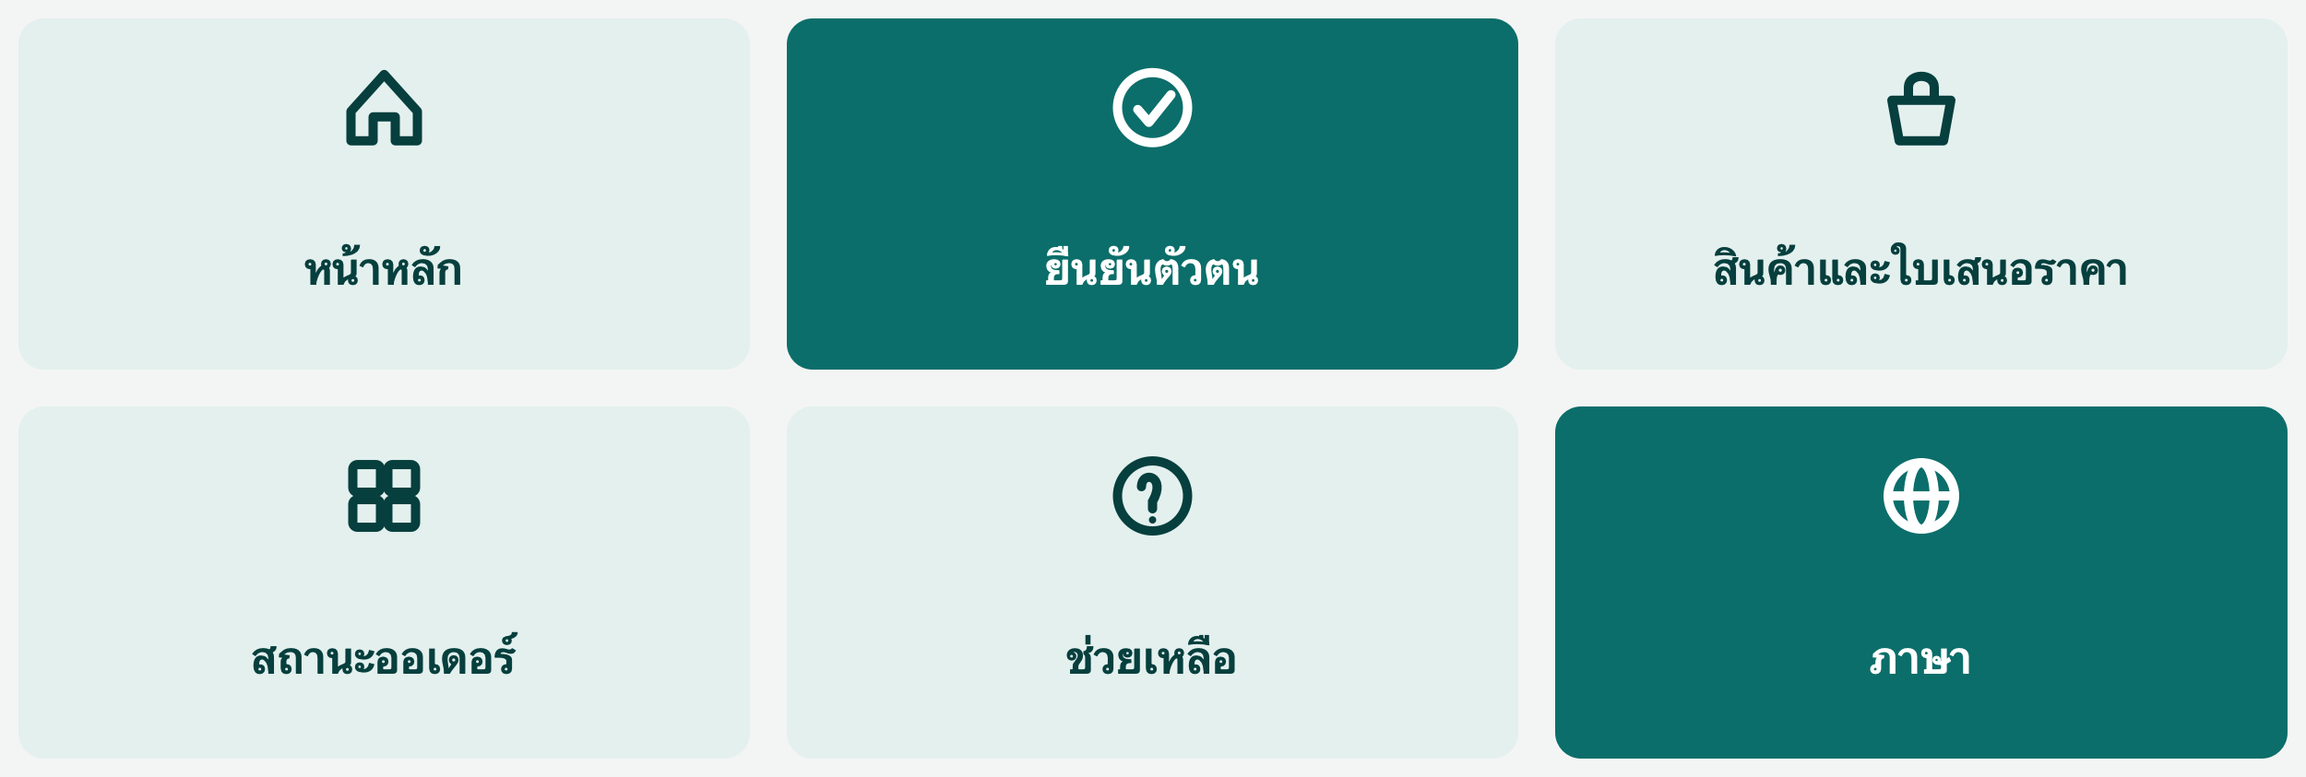
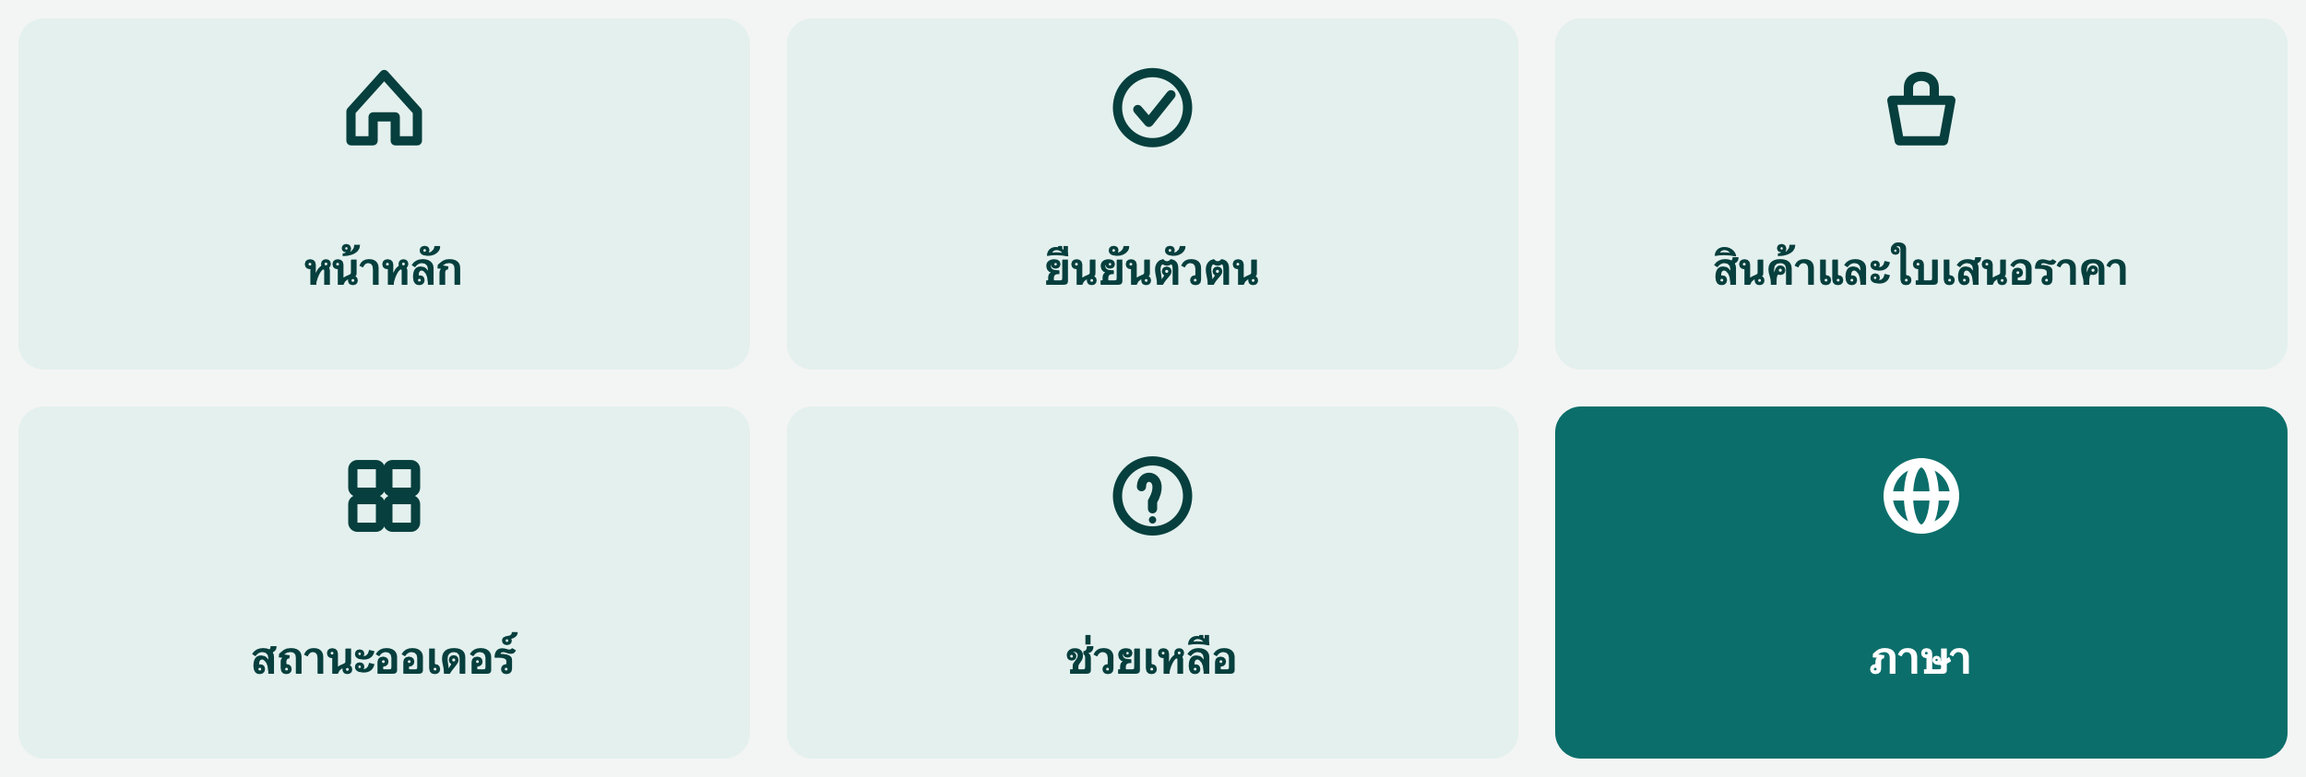
Release: v2.0.0 - Odoo Line OA v2 Staging Deploy

Changed region(s): [[0.3432, 0.0, 0.6864, 0.4935]]

diff --git a/src/line/templates/quotation.ts b/src/line/templates/quotation.ts
@@ -85,7 +85,7 @@ export const createQuotationJourneyFlexMessage = (
   const pairButtons = (left: messagingApi.FlexButton, right: messagingApi.FlexButton): messagingApi.FlexBox => ({
     type: 'box',
     layout: 'horizontal',
-    spacing: 'xs',
+    spacing: 'md',
     contents: [
       { ...left, flex: 1 },
       { ...right, flex: 1 },
@@ -112,7 +112,9 @@ export const createQuotationJourneyFlexMessage = (
         : createMessageActionButton(t('sendInvoice', language), `QUOTE INVOICE SEND ${order.id}`, 'secondary', BRAND.tealTint));
     }
   } else if (!isCancelled && isSent) {
-    bodyActions.push(createMessageActionButton(t('confirm', language), `QUOTE APPROVE ${order.id}`, 'primary', BRAND.teal));
+    bodyActions.push(options.portalLink
+      ? createUriActionButton(t('confirm', language), options.portalLink, 'primary', BRAND.teal)
+      : createMessageActionButton(t('confirm', language), `QUOTE APPROVE ${order.id}`, 'primary', BRAND.teal));
   }
 
   const footerContents: messagingApi.FlexComponent[] = [];
@@ -123,7 +125,7 @@ export const createQuotationJourneyFlexMessage = (
     ];
     footerContents.push(linkRow.length === 1
       ? linkRow[0]
-      : { type: 'box', layout: 'horizontal', spacing: 'xs', contents: linkRow.map(button => ({ ...button, flex: 1 })) });
+      : { type: 'box', layout: 'horizontal', spacing: 'md', contents: linkRow.map(button => ({ ...button, flex: 1 })) });
   }
   if (options.role === 'admin') {
     footerContents.push(createMessageActionButton(t('moreActions', language), `QUOTE MORE ${order.id}`, 'secondary', BRAND.tealTint));
@@ -209,7 +211,7 @@ export const createQuotationJourneyFlexMessage = (
       footer: {
         type: 'box',
         layout: 'vertical',
-        spacing: 'sm',
+        spacing: 'md',
         contents: footerContents.length
           ? footerContents.slice(0, 3)
           : [{ type: 'text', text: ' ', size: 'xs', color: BRAND.surface }],
@@ -264,7 +266,7 @@ export const createQuotationMoreFlexMessage = (
           { type: 'text', text: order.name, size: 'xs', color: '#DDEBE9', margin: 'xs' },
         ],
       },
-      body: { type: 'box', layout: 'vertical', spacing: 'sm', paddingBottom: 'lg', contents: rows },
+      body: { type: 'box', layout: 'vertical', spacing: 'md', paddingBottom: 'lg', contents: rows },
     },
   };
 };
@@ -293,7 +295,7 @@ export const createQuotationEditFlexMessage = (
           {
             type: 'box' as const,
             layout: 'horizontal' as const,
-            spacing: 'xs' as const,
+            spacing: 'md' as const,
             contents: [
               { ...createPrefillButton(t('editItem', language), `QUOTE EDIT ${order.id} ${line.productName},`, 'primary', BRAND.teal), flex: 1 },
               { ...createPrefillButton(tr(language, 'ลบรายการ', 'Remove'), `QUOTE REMOVE ${order.id} ${line.productName}`, 'secondary', BRAND.goldTint), flex: 1 },
@@ -413,7 +415,7 @@ export const createQuoteSendComposerFlexMessage = (
           {
             type: 'box',
             layout: 'horizontal',
-            spacing: 'xs',
+            spacing: 'md',
             contents: [
               { ...createMessageActionButton(t('sendViaLine', language), `${confirmPrefix} LINE`, 'secondary', BRAND.tealTint), flex: 1 },
               { ...createMessageActionButton(t('sendViaEmail', language), `${confirmPrefix} EMAIL${emailSuffix}`, 'secondary', BRAND.tealTint), flex: 1 },
@@ -508,7 +510,7 @@ export const createQuotationListFlexMessage = (
         layout: 'vertical',
         spacing: 'sm',
         contents: [
-          { type: 'box', layout: 'horizontal', spacing: 'sm', contents: [
+          { type: 'box', layout: 'horizontal', spacing: 'md', contents: [
             { ...createDatePickerButton(t('dateFrom', language), bindPostbackData('quote.list.from', userId)), flex: 1 },
             { ...createDatePickerButton(t('dateTo', language), bindPostbackData('quote.list.to', userId)), flex: 1 },
           ] },

diff --git a/src/services/action-otp-complete.ts b/src/services/action-otp-complete.ts
@@ -1,15 +1,31 @@
 import { consumeActionOtpChallengeByToken, getUserLanguage, getUserProfile, setLastActionOtpAt } from './firestore';
 import { sendTargetedFlexMessage, sendTargetedMessage } from '../line/messaging';
 import { DEFAULT_CHANNEL_ID, getBrandTitle, resolveChannelConfig } from '../line/channels';
+import { getSaleOrderPortalLink } from './odoo';
 import { appLogger } from './logger';
 
-export const completeActionOtpByLinkToken = async (token: string): Promise<{ ok: boolean; message: string; channelId?: string }> => {
+/** After action OTP, these commands should open the Odoo portal instead of the identity-verify HTML page. */
+export const portalOrderIdFromPendingCommand = (text: string): number | null => {
+  const trimmed = text.trim();
+  if (/^QUOTE INVOICE SEND\b/i.test(trimmed)) return null;
+  const match = trimmed.match(/^(QUOTE CONFIRM|QUOTE APPROVE|QUOTE INVOICE)\s+(\d+)\b/i);
+  if (!match) return null;
+  const id = Number(match[2]);
+  return Number.isFinite(id) && id > 0 ? id : null;
+};
+
+export const completeActionOtpByLinkToken = async (token: string): Promise<{
+  ok: boolean;
+  message: string;
+  channelId?: string;
+  redirectUrl?: string;
+}> => {
   const consumed = await consumeActionOtpChallengeByToken({ token });
   if (!consumed.ok || !consumed.data) {
     const reason = consumed.error || '';
-    if (reason.includes('action_otp_expired')) return { ok: false, message: 'Verification link expired.' };
-    if (reason.includes('action_otp_locked')) return { ok: false, message: 'Too many attempts. Retry the action in LINE.' };
-    return { ok: false, message: 'Verification link is invalid or already used.' };
+    if (reason.includes('action_otp_expired')) return { ok: false, message: 'This action was not verified. The link expired. Retry from LINE.' };
+    if (reason.includes('action_otp_locked')) return { ok: false, message: 'This action was not verified. Too many attempts. Retry from LINE.' };
+    return { ok: false, message: 'This action was not verified. The link is invalid or already used.' };
   }
 
   await setLastActionOtpAt(consumed.data.userId);
@@ -38,10 +54,19 @@ export const completeActionOtpByLinkToken = async (token: string): Promise<{ ok:
     }
   }
 
+  const trimmed = consumed.data.pendingCommandText;
+  const replayFailed = messages.some(message => /failed to confirm|not found|staff-only|admin-only|ไม่สำเร็จ|ไม่พบ|for sales users/i.test(JSON.stringify(message)));
+  const portalOrderId = replayFailed ? null : portalOrderIdFromPendingCommand(trimmed);
+  const redirectUrl = portalOrderId ? (await getSaleOrderPortalLink(portalOrderId) || undefined) : undefined;
+
   appLogger.info('action_otp_web_verified', {
     gitCommit: process.env.RAILWAY_GIT_COMMIT_SHA || process.env.GIT_COMMIT || null,
-    pending: consumed.data.pendingCommandText.slice(0, 40),
+    pending: trimmed.slice(0, 40),
+    portalRedirect: Boolean(redirectUrl),
   });
 
-  return { ok: true, message: 'Action verified. You can return to LINE now.', channelId };
+  if (redirectUrl) {
+    return { ok: true, message: 'Action verified. Opening the quotation.', channelId, redirectUrl };
+  }
+  return { ok: true, message: 'Action verified. Return to LINE for the next step.', channelId };
 };

diff --git a/src/services/i18n.ts b/src/services/i18n.ts
@@ -61,17 +61,17 @@ export const UI_STRINGS = {
   // "Download PDF", and a longer label gets visually clipped by the LINE
   // client itself (its width-based clipping, not the 20-char cap below).
   viewFullQuotation: { en: 'View Quote', th: 'ดูใบเสนอราคา' },
-  quoteSentToAdmin: { en: 'Sent to the customer for approval.', th: 'ส่งให้ลูกค้าเพื่ออนุมัติแล้ว' },
-  sentViaLine: { en: 'Sent to the customer on LINE.', th: 'ส่งให้ลูกค้าทาง LINE แล้ว' },
+  quoteSentToAdmin: { en: 'Quotation sent to the customer to Confirm or Approve.', th: 'ส่งใบเสนอราคาให้ลูกค้าเพื่อยืนยันหรืออนุมัติแล้ว' },
+  sentViaLine: { en: 'Quotation sent to the customer on LINE to Confirm or Approve.', th: 'ส่งใบเสนอราคาให้ลูกค้าทาง LINE เพื่อยืนยันหรืออนุมัติแล้ว' },
   sentViaEmail: { en: 'Sent to the customer by email.', th: 'ส่งให้ลูกค้าทางอีเมลแล้ว' },
-  sentViaBoth: { en: 'Sent to the customer on LINE and by email.', th: 'ส่งให้ลูกค้าทาง LINE และอีเมลแล้ว' },
+  sentViaBoth: { en: 'Quotation sent on LINE and by email for the customer to Confirm or Approve.', th: 'ส่งใบเสนอราคาทาง LINE และอีเมลให้ลูกค้าเพื่อยืนยันหรืออนุมัติแล้ว' },
   sendViaLine: { en: 'Send LINE', th: 'ส่ง LINE' },
   sendViaEmail: { en: 'Send Email', th: 'ส่งอีเมล' },
   sendViaBoth: { en: 'Send both', th: 'ส่งทั้งคู่' },
   phoneField: { en: 'Phone', th: 'เบอร์โทร' },
   quoteNotLinked: {
-    en: 'This customer has not verified with the bot yet, so LINE cannot message them. Ask them to message the bot and complete VERIFY first.',
-    th: 'ลูกค้ารายนี้ยังไม่ได้ยืนยันตัวตนกับบอท จึงยังส่งข้อความทาง LINE ไม่ได้ กรุณาให้ลูกค้าทักบอทและทำการ VERIFY ก่อน',
+    en: 'LINE cannot message this customer yet. Ask them to open this Official Account first so the quotation can be delivered. They do not need to VERIFY just to receive it.',
+    th: 'ยังส่งข้อความทาง LINE ให้ลูกค้ารายนี้ไม่ได้ กรุณาให้ลูกค้าทัก Official Account นี้ก่อน จึงจะส่งใบเสนอราคาได้ ลูกค้าไม่ต้อง VERIFY เพียงเพื่อรับใบเสนอราคา',
   },
   quoteNotYours: {
     en: "This quotation isn't linked to your account.",

diff --git a/src/line/quote-notify.ts b/src/line/quote-notify.ts
@@ -1,11 +1,9 @@
 import { createQuotationJourneyFlexMessage } from './templates';
-import { DEFAULT_CHANNEL_ID, getBrandTitle } from './channels';
+import { DEFAULT_CHANNEL_ID } from './channels';
 import { sendTargetedFlexMessage } from './messaging';
 import { getPartnerById, getSaleOrderPdfLink, getSaleOrderPortalLink } from '../services/odoo';
 import type { OdooSaleOrder } from '../services/odoo/types';
-import { findVerifiedUserIdByPartnerId, findLineUserIdByPhone, getUserLanguage, getUserProfile, listVerifiedSalesLineUserIds } from '../services/firestore';
-import { startOdooUserVerification } from '../services/user-verification';
-import { createBotTextFlexMessage } from './templates';
+import { findVerifiedUserIdByPartnerId, findLineUserIdByPhone, getUserLanguage, listVerifiedSalesLineUserIds } from '../services/firestore';
 import { getErpAdapter } from '../erp/registry';
 
 export type QuoteSendChannel = 'line' | 'email' | 'both';
@@ -39,10 +37,9 @@ const getOrderLinks = async (orderId: number) => {
 };
 
 /**
- * Push the journey Flex card to the verified customer (LINE, by phone or
- * linked Odoo partner) and to verified Odoo sales users on LINE (plus any
- * ADMIN_USER_ID operators). The actor already received a reply, so they
- * are skipped on the LINE push. LINE admin is not required for sales.
+ * Push the journey Flex card to the customer (LINE, by phone or linked
+ * partner — they do not need identity VERIFY to receive it) and to verified
+ * Odoo sales users. The actor already received a reply, so they are skipped.
  */
 export const notifyQuoteParties = async (input: {
   order: OdooSaleOrder;
@@ -69,29 +66,6 @@ export const notifyQuoteParties = async (input: {
       createQuotationJourneyFlexMessage(input.order, { role: 'customer', ...links }, language),
       channelId,
     );
-    const customerProfile = await getUserProfile(customerLineId);
-    if (!customerProfile.odooVerified && partner?.phone) {
-      const challenge = await startOdooUserVerification({
-        userId: customerLineId,
-        rawPhone: partner.phone,
-        language,
-        agentName: getBrandTitle(language),
-        channelId,
-      });
-      if (challenge.link) {
-        await sendTargetedFlexMessage(
-          [customerLineId],
-          createBotTextFlexMessage({
-            title: language === 'en' ? 'Verify your number' : 'ยืนยันเบอร์ของคุณ',
-            body: challenge.message,
-            language,
-            tone: 'info',
-            linkAction: { label: challenge.linkLabel || (language === 'en' ? 'Verify now' : 'ยืนยันตอนนี้'), uri: challenge.link },
-          }),
-          channelId,
-        );
-      }
-    }
   }
 
   const salesIds = notifySales

diff --git a/src/line/handlers/quotation.ts b/src/line/handlers/quotation.ts
@@ -179,12 +179,10 @@ const parseOrderIdAndMessage = (text: string, prefix: string): { orderId: number
   return { orderId, message };
 };
 
-// Push the customer their order's current card after an admin-side state
-// change (e.g. QUOTE CONFIRM) that they weren't the one who triggered.
-// Silent no-op — not a failure — when the order has no linked partner or
-// that partner hasn't verified with the bot yet (same platform constraint
-// as quote-send); best-effort beyond that, since it's a courtesy push on
-// top of a state change that already succeeded.
+// Push the customer their order's current card after a staff-side state
+// change (e.g. QUOTE CONFIRM). Silent no-op when LINE cannot reach them
+// yet (they have not messaged the OA). They do not need identity VERIFY
+// to receive the quotation.
 const sendChannelSummary = (
   language: UserLanguage,
   result: { customerLineId: string | null; emailed: boolean },
@@ -196,7 +194,7 @@ const sendChannelSummary = (
   if (wanted === 'email' && !emailOk) return t('noPartnerEmail', language);
   if (!lineOk && !emailOk) return t('quoteNotLinked', language);
   if (lineOk && emailOk) return t('sentViaBoth', language);
-  if (lineOk) return t('sentViaLine', language);
+  if (lineOk) return t('quoteSentToAdmin', language);
   return t('sentViaEmail', language);
 };
 
@@ -259,7 +257,13 @@ const quoteConfirmHandler: CommandHandler = {
       .catch(err => console.warn('quote-confirm: customer notify failed (non-fatal):', err));
 
     const { portalLink, pdfLink } = await getOrderLinks(orderId);
-    return [createQuotationJourneyFlexMessage(order, staffCardOptions(profile, { portalLink, pdfLink }, order), userLanguage)];
+    return [
+      botText(
+        tr(userLanguage, 'ยืนยันใบเสนอราคาแล้ว หน้าอนุมัติของลูกค้าพร้อมเปิด', 'Quotation confirmed. The customer quote page is ready to approve.'),
+        userLanguage,
+      ),
+      createQuotationJourneyFlexMessage(order, staffCardOptions(profile, { portalLink, pdfLink }, order), userLanguage),
+    ];
   },
 };
 

diff --git a/src/http/verify-routes.ts b/src/http/verify-routes.ts
@@ -5,8 +5,8 @@ import { oaChatDeepLink, DEFAULT_CHANNEL_ID } from '../line/channels';
 import { escapeHtml } from '../utils/html';
 import { verifyLinkLimiter } from './middleware';
 
-const verificationPage = (ok: boolean, message: string, channelId?: string) => {
-        const title = ok ? 'Verification Completed' : 'Verification Failed';
+const statusPage = (ok: boolean, message: string, channelId?: string, titles?: { ok: string; fail: string }) => {
+        const title = ok ? (titles?.ok || 'Verification Completed') : (titles?.fail || 'Verification Failed');
         const returnLink = oaChatDeepLink(channelId || DEFAULT_CHANNEL_ID);
         const cta = ok ? 'Return to chat' : 'Open LINE';
         const button = returnLink
@@ -22,12 +22,21 @@ export const registerVerifyRoutes = (app: Express): void => {
     app.get('/verify/odoo', verifyLinkLimiter, async (req, res) => {
         const token = String(req.query.token || '');
         const result = await verifyOdooUserByToken(token);
-        res.status(result.ok ? 200 : 400).type('html').send(verificationPage(result.ok, result.message, result.channelId));
+        res.status(result.ok ? 200 : 400).type('html').send(statusPage(result.ok, result.message, result.channelId));
     });
 
     app.get('/verify/action', verifyLinkLimiter, async (req, res) => {
         const token = String(req.query.token || '');
         const result = await completeActionOtpByLinkToken(token);
-        res.status(result.ok ? 200 : 400).type('html').send(verificationPage(result.ok, result.message, result.channelId));
+        if (result.ok && result.redirectUrl) {
+          res.redirect(302, result.redirectUrl);
+          return;
+        }
+        res.status(result.ok ? 200 : 400).type('html').send(statusPage(
+          result.ok,
+          result.message,
+          result.channelId,
+          { ok: 'Done', fail: 'Action not verified' },
+        ));
     });
 };

diff --git a/tests/templates-ux.test.ts b/tests/templates-ux.test.ts
@@ -85,6 +85,7 @@ describe('quotation journey state actions', () => {
     expect(bubble.footer?.contents).toHaveLength(3);
     expect(JSON.stringify(bubble.body)).toContain('QUOTE CONFIRM 17');
     expect(JSON.stringify(bubble.body)).toContain('QUOTE SEND 17');
+    expect(JSON.stringify(bubble.body)).toContain('"spacing":"md"');
     expect(JSON.stringify(bubble.body)).not.toContain('QUOTE MORE');
     expect(JSON.stringify(bubble.footer?.contents?.[0])).toContain('View Quote');
     expect(JSON.stringify(bubble.footer?.contents?.[0])).toContain('Download PDF');
@@ -125,10 +126,11 @@ describe('quotation journey state actions', () => {
       { role: 'customer', portalLink: 'https://example.com/q', pdfLink: 'https://example.com/p' },
       'en',
     ));
-    expect(json).toContain('QUOTE APPROVE 17');
+    expect(json).toContain('https://example.com/q');
     expect(json).toContain('Confirm');
     expect(json).toContain('View Quote');
     expect(json).toContain('Download PDF');
+    expect(json).not.toContain('QUOTE APPROVE 17');
     expect(json).not.toContain('NAV HOME');
     expect(json).not.toContain('QUOTE CONFIRM');
     expect(json).not.toContain('QUOTE SEND');

diff --git a/tests/action-otp-gate.test.ts b/tests/action-otp-gate.test.ts
@@ -1,5 +1,6 @@
 import { describe, expect, it } from 'vitest';
 import { isGatedMutation } from '../src/line/handlers/action-otp';
+import { portalOrderIdFromPendingCommand } from '../src/services/action-otp-complete';
 
 describe('isGatedMutation', () => {
   it('gates the quote lifecycle mutations', () => {
@@ -36,5 +37,18 @@ describe('isGatedMutation', () => {
 
   it('is not fooled by a prefix appearing mid-string', () => {
     expect(isGatedMutation('NOT A QUOTE CREATE COMMAND')).toBe(false);
+  });
+});
+
+describe('portalOrderIdFromPendingCommand', () => {
+  it('opens the Odoo quote page after Confirm or Approve', () => {
+    expect(portalOrderIdFromPendingCommand('QUOTE CONFIRM 17')).toBe(17);
+    expect(portalOrderIdFromPendingCommand('QUOTE APPROVE 17')).toBe(17);
+    expect(portalOrderIdFromPendingCommand('QUOTE INVOICE 17')).toBe(17);
+  });
+
+  it('returns to chat after Send', () => {
+    expect(portalOrderIdFromPendingCommand('QUOTE SEND 17')).toBeNull();
+    expect(portalOrderIdFromPendingCommand('QUOTE INVOICE SEND 17')).toBeNull();
   });
 });

diff --git a/src/line/templates/navigation.ts b/src/line/templates/navigation.ts
@@ -47,7 +47,7 @@ export const createServiceHomeFlexMessage = (
           return createTapRow(
             `${SERVICE_ICON[service.key] || ''} ${service.label}`.trim(),
             `NAV ${service.key}`,
-            active || !highlightVerify ? BRAND.teal : BRAND.tealTint,
+            active ? BRAND.gold : !highlightVerify ? BRAND.teal : BRAND.tealTint,
             active || !highlightVerify ? '#FFFFFF' : BRAND.tealStrong,
             'lg',
           );
@@ -56,7 +56,7 @@ export const createServiceHomeFlexMessage = (
       footer: {
         type: 'box',
         layout: 'horizontal',
-        spacing: 'sm',
+        spacing: 'md',
         contents: [
           { ...createTapRow(`🌐 ${t('languageToggle', language)}`, language === 'en' ? 'LANG TH' : 'LANG EN', BRAND.tealTint, BRAND.tealStrong, 'lg'), flex: 1 },
           { ...createTapRow(`📖 ${t('guide', language)}`, 'GUIDE', BRAND.tealTint, BRAND.tealStrong, 'lg'), flex: 1 },

diff --git a/tests/templates-nav.test.ts b/tests/templates-nav.test.ts
@@ -27,7 +27,7 @@ describe('NAV HOME rounded boxes', () => {
     expect(row?.contents?.[0]?.weight).toBeUndefined();
   });
 
-  it('keeps Verify teal when the viewer is not an Odoo user yet', () => {
+  it('keeps Verify gold when the viewer is not an Odoo user yet', () => {
     const message = createServiceHomeFlexMessage(
       [{ key: 'VERIFY', label: 'Verify account' }, { key: 'commerce', label: 'Products & Quotes' }],
       'en',
@@ -35,7 +35,7 @@ describe('NAV HOME rounded boxes', () => {
       true,
     );
     const bubble = message.contents as { body?: { contents?: Array<Record<string, unknown>> } };
-    expect(bubble.body?.contents?.[0]?.backgroundColor).toBe(BRAND.teal);
+    expect(bubble.body?.contents?.[0]?.backgroundColor).toBe(BRAND.gold);
     expect(bubble.body?.contents?.[1]?.backgroundColor).toBe(BRAND.tealTint);
   });
 

diff --git a/src/line/templates/catalog.ts b/src/line/templates/catalog.ts
@@ -120,7 +120,7 @@ export const createProductCardFlexMessage = (productName: string, price: number,
           {
             type: 'box',
             layout: 'horizontal',
-            spacing: 'xs',
+            spacing: 'md',
             contents: [
               { ...createMessageActionButton(t('searchAgain', language), 'FORM PRODUCT FIND', 'secondary', BRAND.tealTint), flex: 1 },
               { ...createMessageActionButton(t('home', language), 'NAV HOME', 'secondary', BRAND.goldTint), flex: 1 },

diff --git a/src/line/templates/guide.ts b/src/line/templates/guide.ts
@@ -110,7 +110,7 @@ export const createGuideCategoryFlexMessage = (category: CommandCategoryKey, lan
       footer: {
         type: 'box',
         layout: 'horizontal',
-        spacing: 'sm',
+        spacing: 'md',
         contents: [
           { ...createMessageActionButton(language === 'en' ? 'Back' : 'ย้อนกลับ', 'GUIDE', 'secondary', BRAND.goldTint), flex: 1 },
           { ...createMessageActionButton(t('home', language), 'NAV HOME', 'secondary', BRAND.goldTint), flex: 1 },
